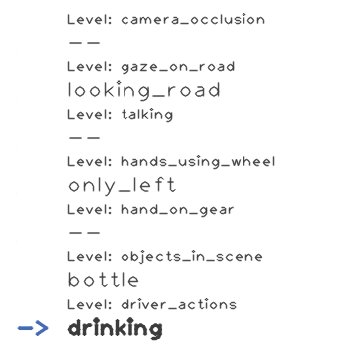
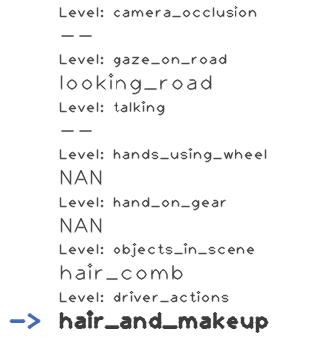
Update readme files

diff --git a/annotation-tool/README.md b/annotation-tool/README.md
@@ -12,6 +12,7 @@ We developed the TaTo tool to annotate temporal events and actions performed by 
     - [TaTo Window description](#tato-window-description)
     - [Annotating with TaTo](#annotating-with-tato)
       - [Select the annotation level](#select-the-annotation-level)
+        - [Special labels](#special-labels)
       - [Annotation Modes](#annotation-modes)
         - [Frame-by-frame annotation](#frame-by-frame-annotation)
         - [Block annotation](#block-annotation)
@@ -77,9 +78,15 @@ An annotation level is a group of labels which are mutually exclusive (two or mo
 
 There are some annotation levels which require all frames to have a label. However, other levels can admit frames with empty labels. This depends on the nature of the annotation level. Annotation levels with empty labels will include this option in the config file. 
 
-The first step to start annotating a video is to **select the annotation level**. You can see the current selected level in the main window's levels panel (see figure below). The current selected level will display an arrow "->" symbol and the current label will be highlighted in bold text. To change between levels use the <kbd>Tab</kbd> key.
+The first step to start annotating a video is to **select the annotation level**. You can see the current selected level in the main window's annotation info panel (see figure below). The current selected level will display an arrow "->" symbol and the current label will be highlighted in bold text. To change between levels use the <kbd>Tab</kbd> key.
 
-![Levels Panel](../docs/imgs/level_panel.png)
+![annotation info](../docs/imgs/level_panel.png "annotation_info")
+
+##### Special labels
+All the annotations levels will have a group of text labels which are used to annotate the temporal events. However, you will see two special labels displayed in the [annotation info panel](../docs/imgs/level_panel.png):
+
+- **NAN**: This means there is not a frame from the camera stream used to annotate that level. this label is automatically set by the tool. 
+- **--**: This means absence of label. Some levels don't require to have continuos annotation labels so this "empty" label should be present. For those levels which requires continuos annotations this "empty" label should not be present. Please consult the annotation criteria to know the level characteristic. 
 
 #### Annotation Modes
 The annotation tool has two modes of annotation: **frame-by-frame** and **block** annotation.
@@ -153,7 +160,7 @@ Depending the annotation problem, different annotation criteria should be define
 
 We have defined the following criteria to be used with tool to produce consistent annotations:
 
-- [DMD Distraction-related actions]() annotation
+- [DMD Distraction-related actions](wiki/DMD-distraction-related-action-annotation-criteria) annotation
 
 ## Changelog
 For a complete list of changes check the [CHANGELOG.md]() file

diff --git a/README.md b/README.md
@@ -6,6 +6,8 @@ This project include a tool to annotate the dataset, inspect the annotated data 
 ## Dataset details
 More details of the recording and video material of DMD can be found at the [official website](http://dmd.vicomtech.org/)
 
+In addition, this repository [wiki](wiki) has useful information about the DMD dataset and the annotation process.
+
 ## Available tools:
 - Temporal Annotation Tool (TaTo) - (more info [here](annotation-tool/README.md)) 
 
